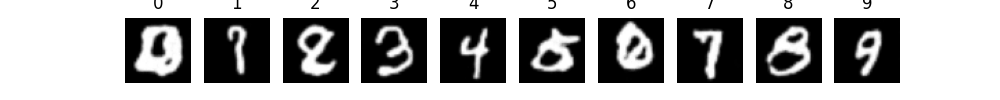
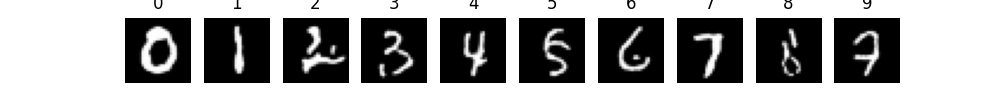
Updated inference results.

diff --git a/model/dit.py b/model/dit.py
@@ -1,8 +1,8 @@
 from torch import nn 
 import torch 
-from time_emb import TimeEmbedding
-from dit_block import DiTBlock
-from config import T 
+from model.time_position_emb import TimePositionEmbedding
+from model.dit_block import DiTBlock
+from script.config import T 
 
 class DiT(nn.Module):
     def __init__(self,img_size,patch_size,channel,emb_size,label_num,dit_num,head):
@@ -19,7 +19,7 @@ class DiT(nn.Module):
         
         # time emb
         self.time_emb=nn.Sequential(
-            TimeEmbedding(emb_size),
+            TimePositionEmbedding(emb_size),
             nn.Linear(emb_size,emb_size),
             nn.ReLU(),
             nn.Linear(emb_size,emb_size)
@@ -45,13 +45,11 @@ class DiT(nn.Module):
         # label emb
         y_emb=self.label_emb(y) #   (batch,emb_size)
         # slant_emb
-        y_emb+=self.slant_emb(s) #   (batch,emb_size)
+        y_emb+=self.slant_emb(s.view(-1,1)) #   (batch,emb_size)
         # time emb
         t_emb=self.time_emb(t)  #   (batch,emb_size)
-        
         # condition emb
         cond=y_emb+t_emb
-        
         # patch emb
         x=self.conv(x)  # (batch,new_channel,patch_count,patch_count)
         x=x.permute(0,2,3,1)    # (batch,patch_count,patch_count,new_channel)

diff --git a/script/train.py b/script/train.py
@@ -16,9 +16,9 @@ from dataset import train_dataset
 from model.diffusion import forward_diffusion
 from model.dit import DiT
 
-EPOCH = 50
-BATCH_SIZE = int(os.getenv("BATCH_SIZE", 128))
-LEARNING_RATE = 0.0005
+EPOCH = 500
+BATCH_SIZE = int(os.getenv("BATCH_SIZE", 400))
+LEARNING_RATE = 0.001
 WANDB_PROJECT = "diffusion-morphomnist"
 
 dataloader = DataLoader(

diff --git a/model/__init__.py b/model/__init__.py
@@ -1,3 +1,3 @@
-from .unet import UNet
+from .dit import DiT
 
-__all__ = ["UNet"]
+__all__ = ["DiT"]
